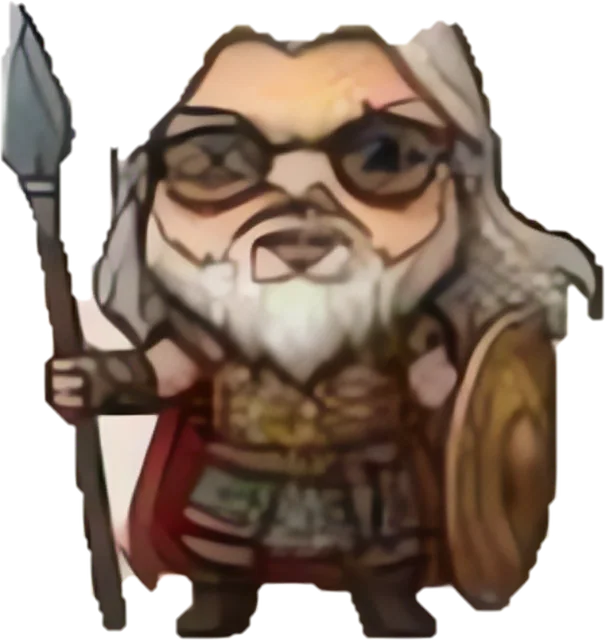
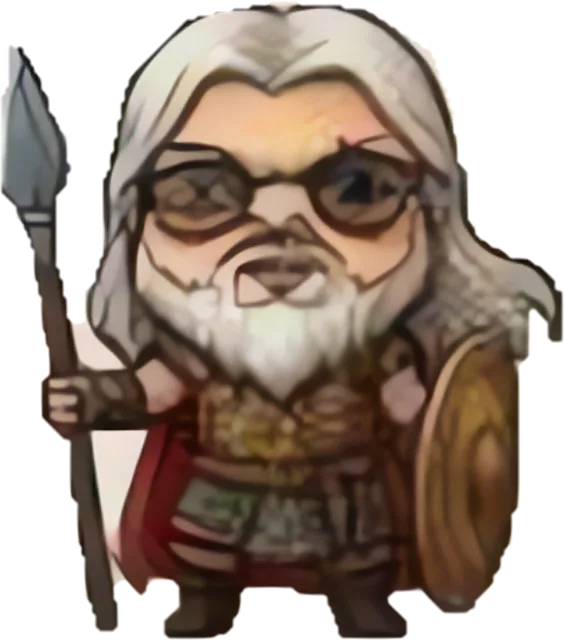
Share button near character, referral tickets, fix Odin head
Claude-Session: https://claude.ai/code/session_01X9RpY9G117QWH6r3Rqz8Sf

diff --git a/index.html b/index.html
@@ -29,7 +29,7 @@
 .azf.r4 img{filter:drop-shadow(0 0 7px #ff7ab8) drop-shadow(0 0 10px #7ab8ff) drop-shadow(0 6px 5px rgba(0,0,0,.25))}
 .azf .bb{position:absolute;bottom:calc(100% - 4px);left:50%;transform:translateX(-50%);width:max-content;max-width:none;white-space:nowrap!important;word-break:keep-all!important;overflow-wrap:normal!important;text-wrap:nowrap;background:#fffdf8;border:1.5px solid #e6d9c8;border-radius:16px;padding:7px 12px;font-size:13px;color:#4a3b32;box-shadow:0 3px 10px rgba(0,0,0,.18)}
 .azf .bb:after{content:"";position:absolute;left:50%;bottom:-6px;width:10px;height:10px;background:#fffdf8;border-right:1.5px solid #e6d9c8;border-bottom:1.5px solid #e6d9c8;transform:translateX(-50%) rotate(45deg)}
-.vcnt{text-align:center;font-size:10px;line-height:1.4;color:#9b8f86;opacity:.65;margin:2px 0 14px;letter-spacing:.04em}em.req{font-style:normal;font-size:10px;font-weight:700;color:#fff;background:#d9534f;border-radius:6px;padding:1px 6px;margin-left:4px;vertical-align:1px}.btn.xbtn{margin-top:10px;background:#fff8e6;color:#6b4a1f;border:2px solid #d9b45a;font-weight:800}.xcap{font-size:12px;line-height:1.6;color:#6b5a4a;margin:6px 0 0;text-align:center}.safebar{position:fixed;top:0;left:0;right:0;z-index:100001;box-shadow:0 4px 14px rgba(0,0,0,.25);margin:0;padding:10px 14px;background:#fff3cd;color:#5c4510;text-align:center;font-size:12px;line-height:1.6;border-bottom:2px solid #e6c15a}.safebar[hidden]{display:none}.safebar b{display:block;font-size:13px}.safebar span{display:block;margin:2px 0 6px}.safebar .btn{display:inline-block;padding:8px 18px;font-size:13px;text-decoration:none}span.r{text-wrap:balance}.nw{white-space:nowrap!important}.azpt{position:fixed;left:50%;bottom:calc(22px + env(safe-area-inset-bottom));transform:translate(-50%,30px) scale(.9);z-index:61;width:min(86vw,320px);box-sizing:border-box;background:linear-gradient(135deg,#3a2470,#6a3fb5 55%,#c4579a);color:#fff;padding:12px 16px 12px;border-radius:20px;border:2px solid #ffe08a;box-shadow:0 6px 22px rgba(60,20,110,.5),0 0 18px rgba(255,214,107,.55);opacity:0;transition:opacity .3s,transform .35s cubic-bezier(.2,1.4,.4,1);pointer-events:none;text-align:center}.azpt.on{opacity:1;transform:translate(-50%,0) scale(1)}.azpt .azn{font:800 30px/1.1 sans-serif;letter-spacing:.02em;color:#ffe9a8;text-shadow:0 2px 0 rgba(0,0,0,.25),0 0 10px rgba(255,214,107,.7)}.azpt .azn small{font:700 14px sans-serif;color:#fff;opacity:.9;margin-left:2px}.azpt .azb{height:10px;border-radius:99px;background:rgba(255,255,255,.22);margin:8px 0 6px;overflow:hidden}.azpt .azb i{display:block;height:100%;border-radius:99px;background:linear-gradient(90deg,#ffd86b,#ff8a5c,#ff5fa2);box-shadow:0 0 8px #ffd86b;transition:width .5s ease-out}.azpt .azl{font:700 12px/1.3 sans-serif;color:#fff;opacity:.95}.azpt.bump .azn{animation:azpop .4s ease-out}@keyframes azpop{40%{transform:scale(1.22)}}
+.vcnt{text-align:center;font-size:10px;line-height:1.4;color:#9b8f86;opacity:.65;margin:2px 0 14px;letter-spacing:.04em}.refbox{margin:12px 0;padding:14px 12px;border-radius:16px;background:linear-gradient(135deg,#fff7e0,#ffe9f1);border:2px solid #f0b94d;text-align:center;box-shadow:0 3px 12px rgba(240,185,77,.28)}.refbox b{display:block;font-size:15px;line-height:1.5;color:#8a4b00}.refbox small{display:block;margin:4px 0 10px;font-size:12px;line-height:1.6;color:#7a6650}.refbox .rbs{display:flex;gap:8px;justify-content:center;flex-wrap:wrap}.refbox .rb1{flex:1 1 140px;border:0;border-radius:999px;padding:12px 10px;font-size:14px;font-weight:700;color:#fff;background:#06c755;cursor:pointer;white-space:nowrap}.refbox .rb2{flex:1 1 140px;border:2px solid #f0b94d;border-radius:999px;padding:10px;font-size:14px;font-weight:700;color:#8a4b00;background:#fff;cursor:pointer;white-space:nowrap}.refbox .rmsg{min-height:0;margin:8px 0 0;font-size:12px;color:#8a4b00}em.req{font-style:normal;font-size:10px;font-weight:700;color:#fff;background:#d9534f;border-radius:6px;padding:1px 6px;margin-left:4px;vertical-align:1px}.btn.xbtn{margin-top:10px;background:#fff8e6;color:#6b4a1f;border:2px solid #d9b45a;font-weight:800}.xcap{font-size:12px;line-height:1.6;color:#6b5a4a;margin:6px 0 0;text-align:center}.safebar{position:fixed;top:0;left:0;right:0;z-index:100001;box-shadow:0 4px 14px rgba(0,0,0,.25);margin:0;padding:10px 14px;background:#fff3cd;color:#5c4510;text-align:center;font-size:12px;line-height:1.6;border-bottom:2px solid #e6c15a}.safebar[hidden]{display:none}.safebar b{display:block;font-size:13px}.safebar span{display:block;margin:2px 0 6px}.safebar .btn{display:inline-block;padding:8px 18px;font-size:13px;text-decoration:none}span.r{text-wrap:balance}.nw{white-space:nowrap!important}.azpt{position:fixed;left:50%;bottom:calc(22px + env(safe-area-inset-bottom));transform:translate(-50%,30px) scale(.9);z-index:61;width:min(86vw,320px);box-sizing:border-box;background:linear-gradient(135deg,#3a2470,#6a3fb5 55%,#c4579a);color:#fff;padding:12px 16px 12px;border-radius:20px;border:2px solid #ffe08a;box-shadow:0 6px 22px rgba(60,20,110,.5),0 0 18px rgba(255,214,107,.55);opacity:0;transition:opacity .3s,transform .35s cubic-bezier(.2,1.4,.4,1);pointer-events:none;text-align:center}.azpt.on{opacity:1;transform:translate(-50%,0) scale(1)}.azpt .azn{font:800 30px/1.1 sans-serif;letter-spacing:.02em;color:#ffe9a8;text-shadow:0 2px 0 rgba(0,0,0,.25),0 0 10px rgba(255,214,107,.7)}.azpt .azn small{font:700 14px sans-serif;color:#fff;opacity:.9;margin-left:2px}.azpt .azb{height:10px;border-radius:99px;background:rgba(255,255,255,.22);margin:8px 0 6px;overflow:hidden}.azpt .azb i{display:block;height:100%;border-radius:99px;background:linear-gradient(90deg,#ffd86b,#ff8a5c,#ff5fa2);box-shadow:0 0 8px #ffd86b;transition:width .5s ease-out}.azpt .azl{font:700 12px/1.3 sans-serif;color:#fff;opacity:.95}.azpt.bump .azn{animation:azpop .4s ease-out}@keyframes azpop{40%{transform:scale(1.22)}}
 .azplus{position:fixed;z-index:62;font:800 22px/1 sans-serif;color:#ff8a1e;text-shadow:0 0 6px #fff,0 0 3px #fff;pointer-events:none;animation:azup 1.1s ease-out forwards}@keyframes azup{from{transform:translateY(0) scale(.8);opacity:1}to{transform:translateY(-60px) scale(1.3);opacity:0}}
 @keyframes azfb{0%,100%{transform:translateY(0) rotate(-3deg)}50%{transform:translateY(-12px) rotate(3deg)}}
 @keyframes azfl{from{transform:translate(var(--x0),var(--y0))}to{transform:translate(var(--x1),var(--y1))}}
@@ -3986,7 +3986,7 @@ function gxCap(a) { ME.gb = ME.gb || {}; return 3 + (ME.gb[a.seed >>> 0] || 0); 
 function gxPulls(a) { ME.gp = ME.gp || {}; var k = a.seed >>> 0; if (!ME.gp[k]) ME.gp[k] = []; return ME.gp[k]; }
 function gxHTML(a) {
   try { if (!a || !a.p) return ""; GX_CUR = a; var left = gxCap(a) - gxPulls(a).length, tk = tkAvail();
-    return '<button class="gxbtn" data-gx="1">🎰 キャラ替えガチャ（' + (left > 0 ? (left === 3 ? '3回まで引き直して、選べます' : 'あと' + left + '回') : tk > 0 ? '🎟 ガチャ券で、もう1回' : '候補から選びなおす') + '）</button>' + (tk > 0 ? '<p class="tkn">🎟 ガチャ券が ' + tk + ' 枚あります</p>' : ''); } catch (e) { return ""; }
+    return '<button class="gxbtn" data-gx="1">🎰 キャラ替えガチャ<br><span class="nw">（' + (left > 0 ? (left === 3 ? '3回まで引き直して、選べます' : 'あと' + left + '回') : tk > 0 ? '🎟 ガチャ券で、もう1回' : '候補から選びなおす') + '）</span></button>' + (tk > 0 ? '<p class="tkn">🎟 ガチャ券が ' + tk + ' 枚あります</p>' : ''); } catch (e) { return ""; }
 }
 function gxDraw(a, ex, force) {
   var g = a.p ? a.p.g : "", x = Math.random() * 100, rk = rkTier(x), pool, i;
@@ -4636,7 +4636,7 @@ function addMyRes() {
 }
 function meUrl() {
   var A = ME.A, m = null; try { var an = analyze(A); if (an && an.p) m = pickChar(an); } catch (e) {}
-  return SHARE_URL + "?me=" + b64e({ c: 0, A: { g: A.g, date: A.date, time: A.time, unk: !!A.unk, place: A.place, mbti: A.mbti }, s: String(A.sur || "").slice(0, 12), v: String(A.giv || "").slice(0, 12), k: String(A.nick || "").slice(0, 12), m: m, cl: (ME.col || []).slice(0, 400), pt: ME.pt || 0, tu: ME.tu || 0, dy: (ME.days || []).slice(-120), tn: ME.tn || 0 }) + "&openExternalBrowser=1";
+  return SHARE_URL + "?me=" + b64e({ c: 0, A: { g: A.g, date: A.date, time: A.time, unk: !!A.unk, place: A.place, mbti: A.mbti }, s: String(A.sur || "").slice(0, 12), v: String(A.giv || "").slice(0, 12), k: String(A.nick || "").slice(0, 12), m: m, cl: (ME.col || []).slice(0, 400), pt: ME.pt || 0, tu: ME.tu || 0, dy: (ME.days || []).slice(-120), tn: ME.tn || 0, ri: ME.ri || "", rn: ME.rn || 0, rs: ME.rs || 0, rb: ME.rb || "", rd: ME.rd || 0 }) + "&openExternalBrowser=1";
 }
 document.addEventListener("click", function (e) {
   var T = e.target && e.target.closest ? e.target.closest("[data-mesave]") : null; if (!T || !ME.A) return;
@@ -4655,7 +4655,7 @@ document.addEventListener("click", function (e) {
       var rw = b64d(t) || {}, an = analyze(ME.A); ME.bc = ME.bc || {}; ME.gx = ME.gx || {};
       if (an && an.p && rw.m != null && CHR[+rw.m]) { ME.bc[an.seed >>> 0] = +rw.m; ME.gx[an.seed >>> 0] = +rw.m; }
       ME.col = ME.col || []; (rw.cl || []).concat(rw.m != null ? [rw.m] : []).forEach(function (k) { k = +k; if (CHR[k] && ME.col.indexOf(k) < 0) ME.col.push(k); });
-      ME.pt = Math.max(ME.pt || 0, +rw.pt || 0); ME.tu = Math.max(ME.tu || 0, +rw.tu || 0); ME.tn = Math.max(ME.tn || 0, +rw.tn || 0);
+      ME.pt = Math.max(ME.pt || 0, +rw.pt || 0); ME.tu = Math.max(ME.tu || 0, +rw.tu || 0); ME.tn = Math.max(ME.tn || 0, +rw.tn || 0); if (!ME.ri && /^[a-z0-9]{6,12}$/.test(String(rw.ri || ""))) ME.ri = rw.ri; ME.rn = Math.max(ME.rn || 0, +rw.rn || 0); ME.rs = Math.max(ME.rs || 0, +rw.rs || 0); if (!ME.rb && /^[a-z0-9]{6,12}$/.test(String(rw.rb || ""))) ME.rb = rw.rb; ME.rd = Math.max(ME.rd || 0, +rw.rd || 0);
       ME.days = ME.days || []; (rw.dy || []).forEach(function (d) { d = String(d).slice(0, 12); if (/^\d{4}-\d{1,2}-\d{1,2}$/.test(d) && ME.days.indexOf(d) < 0) ME.days.push(d); }); ME.days.sort();
     } catch (er) {}
     meSave(); try { history.replaceState(null, "", location.pathname); } catch (er) {}
@@ -4928,6 +4928,54 @@ setTimeout(azFloat, 7000);
       if (!seen) { try { localStorage.setItem(K, "1"); } catch (e) {} }
     }).catch(function () {});
   } catch (e) {}
+})();
+
+/* ===== 友だち紹介：1人ごとにガチャ券1枚 ===== */
+var REF_NS = "https://api.counterapi.dev/v1/libertan-shindan/", REF_CAP = 30;
+function refId() { if (!ME.ri) { var s = "", c = "abcdefghjkmnpqrstuvwxyz23456789", i; for (i = 0; i < 10; i++) s += c.charAt(Math.floor(Math.random() * c.length)); ME.ri = s; meSave(); } return ME.ri; }
+tkAvail = function () { var e = Math.floor(((ME.days || []).length) / 7) + Math.floor((ME.pt || 0) / 10000) + Math.min(REF_CAP, ME.rn || 0); return Math.max(0, e - (ME.tu || 0)); };
+(function () { var f = invUrl; invUrl = function (a) { return f(a).replace("?d=", "?r=" + refId() + "&d="); }; })();
+(function () {
+  try {
+    var q = new URLSearchParams(window.QS0 || location.search), r = q.get("r");
+    if (r && q.get("d") && /^[a-z0-9]{6,12}$/.test(r) && r !== ME.ri && !ME.rb && !(ME.A && ME.A.date)) { ME.rb = r; ME.rd = 0; meSave(); }
+  } catch (e) {}
+})();
+function refPing() {
+  try {
+    if (!ME.rb || ME.rd || !(ME.A && ME.A.date)) return; var an = analyze(ME.A); if (!an || !an.p) return;
+    fetch(REF_NS + "r_" + ME.rb + "/up", { cache: "no-store" }).then(function (r) { if (r.ok) { ME.rd = 1; meSave(); } }).catch(function () {});
+  } catch (e) {}
+}
+function refSync() {
+  try {
+    if (!ME.ri) return;
+    fetch(REF_NS + "r_" + ME.ri, { cache: "no-store" }).then(function (r) { return r.ok ? r.json() : null; }).then(function (j) {
+      var n = j && (j.count != null ? j.count : j.value); n = Math.min(REF_CAP, Math.max(0, parseInt(n, 10) || 0)); if (!n || n <= (ME.rn || 0)) return;
+      var add = n - (ME.rn || 0); ME.rn = n; meSave();
+      if (n > (ME.rs || 0)) {
+        ME.rs = n; meSave();
+        var ov = xEl("div", "gxov tkov", '<div class="gxbox" style="text-align:center"><div style="font-size:54px">🎟</div><h3>ガチャ券をゲット！</h3><p class="gxs">お友だちが ' + add + ' 人、診断してくれました！<br>紹介のお礼に、ガチャ券を ' + add + ' 枚プレゼント<br>キャラ画面の「キャラ替えガチャ」でつかえます</p><button type="button" class="btn" data-gxclose="1">やったー！</button></div>');
+        document.body.appendChild(ov); try { xBurst(window.innerWidth / 2, window.innerHeight / 3, 12); } catch (e) {}
+      }
+    }).catch(function () {});
+  } catch (e) {}
+}
+window.setTimeout(function () { refPing(); refSync(); }, 3500);
+function refBoxHTML() {
+  var n = ME.rn || 0;
+  return '<div class="refbox"><b>👫 友だちと、相性を診てみよう</b><small>リンクを送ると、お友だちは自分の診断だけで<br>ふたりの相性まで見られます<br>🎟 ひとり診断してくれるごとに、ガチャ券が1枚！' + (n ? '<br>（これまでの紹介 ' + n + ' 人）' : '') + '</small><div class="rbs"><button type="button" class="rb1" data-sm="line">LINEで送る</button><button type="button" class="rb2" data-sm="' + (navigator.share ? 'native' : 'copy') + '">' + (navigator.share ? '📤 ほかのアプリで送る' : 'リンクをコピー') + '</button></div><p class="rmsg" data-smmsg></p></div>';
+}
+(function () {
+  var f = renderSelf; renderSelf = function () {
+    f();
+    try {
+      var box = $("res-self"); if (!box || box.hidden || S.page.self === "in" || (S.page.self !== "overview" && S.page.self !== "char")) return;
+      box.querySelectorAll(".refbox").forEach(function (x) { x.remove(); });
+      var a = analyze(S.A); if (!a || !a.p) return; var hero = box.querySelector(".hero"); if (!hero) return;
+      hero.insertAdjacentHTML("afterend", refBoxHTML()); try { budoxify(box.querySelector(".refbox")); } catch (e) {}
+    } catch (e) {}
+  };
 })();
 
 document.addEventListener("click", function (e) {
